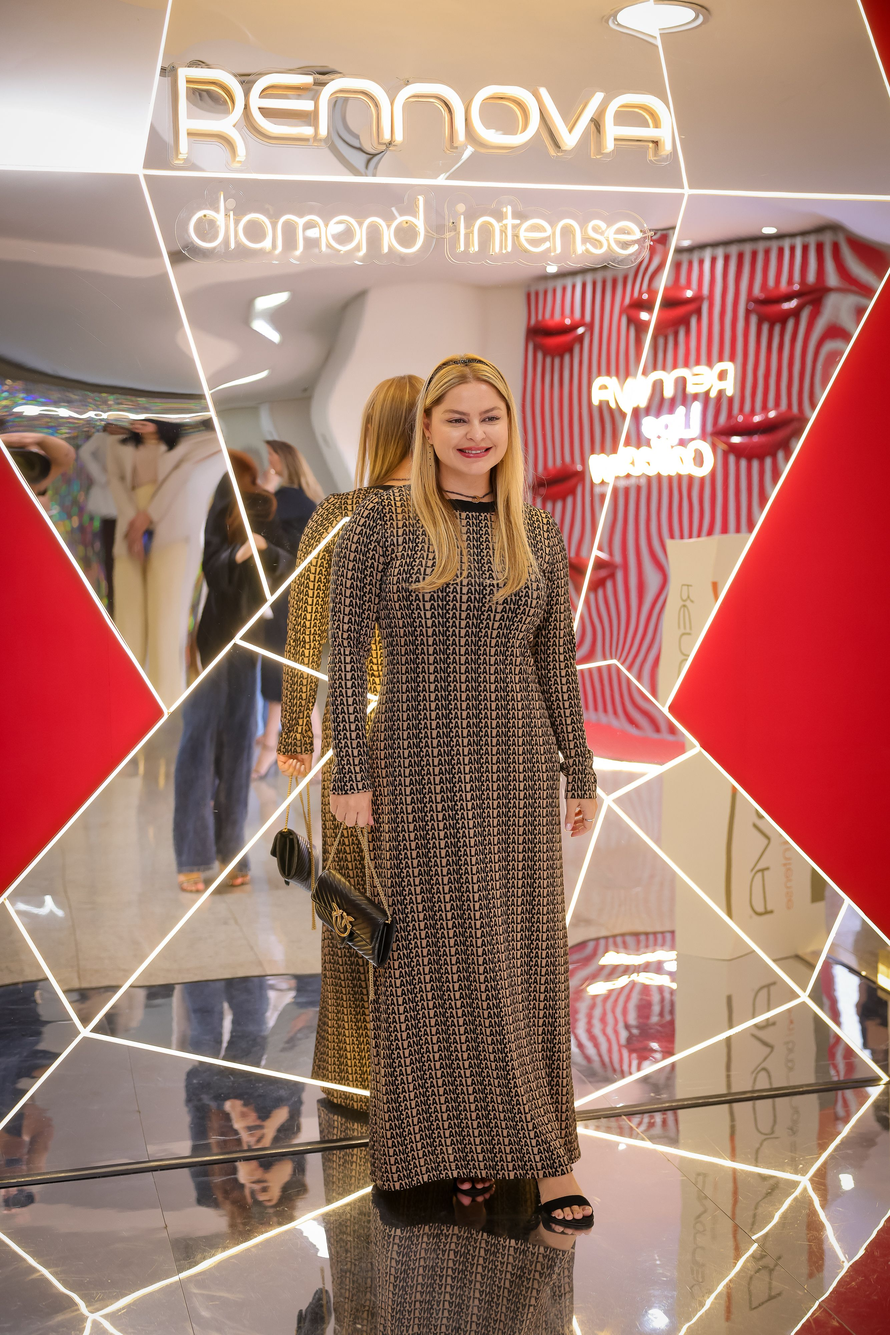
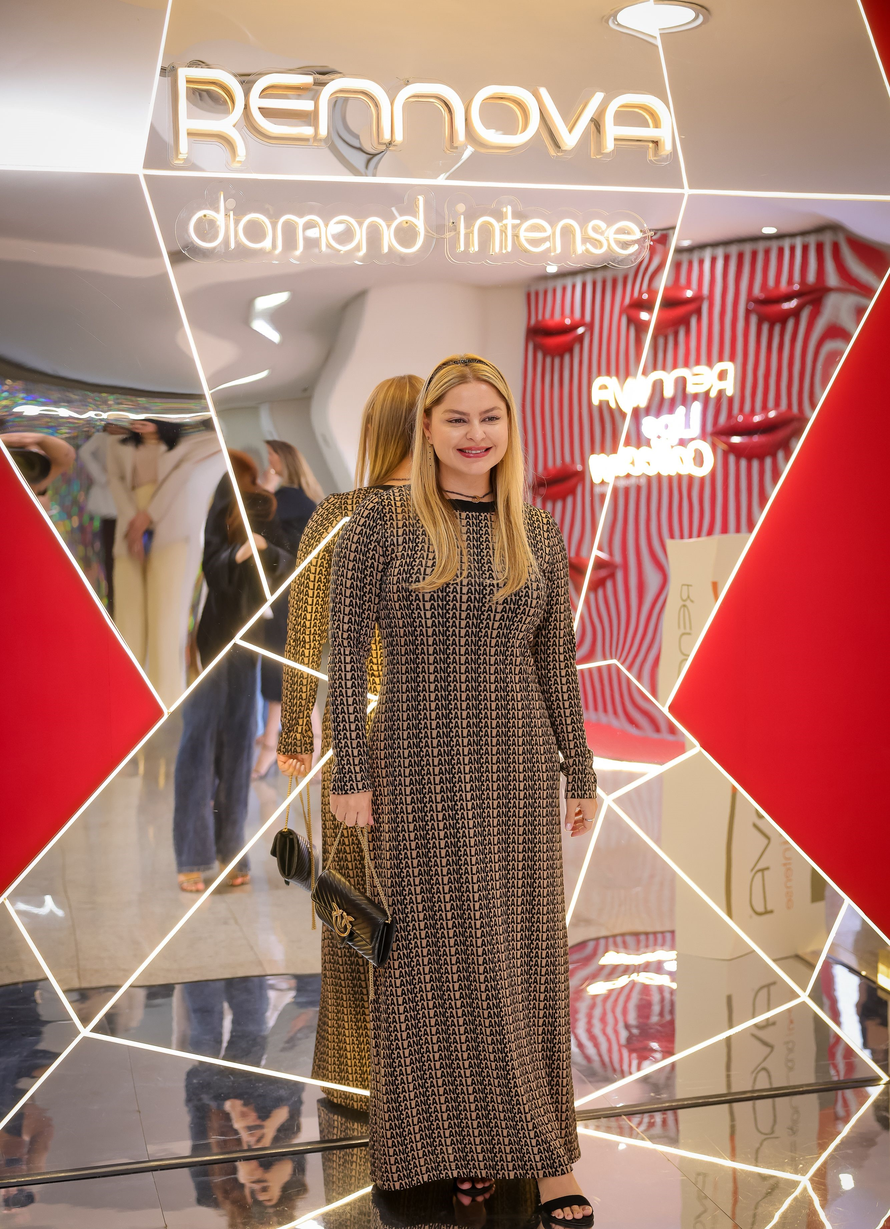
Change in section colors, button colors, photo and text of the 'schedule your appointment!' card, change in the background of the first section of the treatments page

diff --git a/index.html b/index.html
@@ -356,7 +356,7 @@
                 </div>
             </div>
         </section>
-        <section id="carousel" class="overlay-section1 sm:px-8 lg:px-16">
+        <section id="carousel" class="overlay-section1 sm:px-8 lg:px-16 color-sec-cares">
             <h3 class="text-center font-semibold text-amber-950 mb-4">CONGRESSO E EVENTOS</h3>
             <div class="carousel-3d-container">
                 <div class="carousel-3d">
@@ -435,11 +435,11 @@
                 </div>
             </div>
         </section>
-        <section id="destaques" class="overlay-section px-4 sm:px-8 lg:px-16">
+        <section id="destaques" class="overlay-section px-4 sm:px-8 lg:px-16 color-sec-cares">
             <div class="container mx-auto max-w-6xl">
                 <div class="text-center mb-12">
                     <a href="https://www.instagram.com/dra.marilliacarvalho/?hl=pt-br"
-                        class="inline-block bt-color font-semibold py-3 px-8 rounded-lg text-lg shadow-lg hover:shadow-xl transform hover:scale-105">
+                        class="inline-block bt-color-two font-semibold py-3 px-8 rounded-lg text-lg shadow-lg hover:shadow-xl transform hover:scale-105">
                         Conheça mais pelo instagram
                     </a>
                 </div>
@@ -452,7 +452,7 @@
                         <p class="text-gray-800">Flamboyant Park Bussines</p>
                         <p class="text-sm text-gray-700 mb-3">Endereço completo aqui, Goiânia - GO</p>
                         <a href="https://maps.app.goo.gl/tHfTeZ75w4kFywzp8"
-                            class="bt-color font-semibold py-3 px-8 rounded-lg inline-flex items-center text-lg shadow-lg hover:shadow-xl transform hover:scale-105">
+                            class="bt-color-two font-semibold py-3 px-8 rounded-lg inline-flex items-center text-lg shadow-lg hover:shadow-xl transform hover:scale-105">
                             GOIÂNIA
                         </a>
                     </div>
@@ -466,7 +466,7 @@
                         <p class="text-sm text-gray-700 mb-3">Endereço completo aqui, São Miguel do Passa Quatro - GO
                         </p>
                         <a href="https://maps.app.goo.gl/eGiCP4cbMKwyCzES7"
-                            class="bt-color font-semibold py-3 px-8 rounded-lg inline-flex items-center text-lg shadow-lg hover:shadow-xl transform hover:scale-105">
+                            class="bt-color-two font-semibold py-3 px-8 rounded-lg inline-flex items-center text-lg shadow-lg hover:shadow-xl transform hover:scale-105">
                             SÃO MIGUEL DO PASSA QUATRO
                         </a>
                     </div>
@@ -474,7 +474,7 @@
             </div>
         </section>
 
-        <section id="contato" class="mobile-only overlay-section z-20">
+        <section id="contato" class="mobile-only overlay-section z-20 color-sec-cares">
             <div class="relative lg:hidden flex flex-col items-center card card-wtsp lg:max-w-5xl mx-auto shadow-lg overflow-hidden">
                 <div class="block absolute inset-0 bg-black/30"></div>
                 <div class="z-10 py-12 px-8 lg:pl-20 lg:pr-8 lg:py-16 flex flex-col justify-end text-center lg:text-left flex-grow">
@@ -501,15 +501,15 @@
             </div>
         </section>
 
-        <section class="desktop-only overlay-section px-4 py-16">
+        <section class="desktop-only overlay-section px-4 py-16 color-sec-cares">
             <div class="card-wtsp-desk lg:flex items-center lg:max-w-5xl mx-auto rounded-2xl">
                 <div
                     class="py-12 px-8 lg:pl-20 lg:pr-8 lg:py-16 flex flex-col justify-center text-center lg:text-left flex-grow">
-                    <h2 class="text-white text-3xl font-bold mb-4">Agende já sua consulta!</h2>
-                    <p class="text-white text-lg max-w-xl lg:mx-0 mx-auto">
+                    <h2 class="color-subtitle text-3xl font-bold mb-4">Agende já sua consulta!</h2>
+                    <p class="color-subtitle text-lg max-w-xl lg:mx-0 mx-auto">
                         Entre em contato para tirar suas dúvidas e dar
                     </p>
-                    <p class="text-white text-lg mb-6 max-w-xl lg:mx-0 mx-auto">
+                    <p class="color-subtitle text-lg mb-6 max-w-xl lg:mx-0 mx-auto">
                         o primeiro passo para realçar sua beleza e bem-estar.
                     </p>
                     <div class="flex justify-center lg:justify-start">
@@ -526,7 +526,7 @@
                     </div>
                 </div>
                 <div id="agende-consulta-img-container" class="lg:w-1/2 lg:flex lg:justify-end pointer-events-none">
-                    <img src="/New Photos/SAVE_20250820_153606-removebg-preview.png" alt="[Imagem de Marilia Carvalho]"
+                    <img src="/New Photos/SAVE_20250820_153535-removebg-preview.png" alt="[Imagem de Marilia Carvalho]"
                         class="h-auto object-contain object-bottom pointer-events-auto lg:mt-0 lg:h-full rounded-br-4xl max-w-xs md:max-w-full agende-consulta-img">
                 </div>
             </div>

diff --git a/styles/style.css b/styles/style.css
@@ -75,6 +75,11 @@ body {
     color: white;
 }
 
+.bt-color-two {
+    background-color: white;
+    color: #1F2937;
+}
+
 .shadowgray {
     --tw-shadow: 0 20px 25px -5px rgb(0 0 0 / 0.1), 0 8px 10px -6px rgb(0 0 0 / 0.1);
     --tw-shadow-colored: 0 20px 25px -5px var(--tw-shadow-color), 0 8px 10px -6px var(--tw-shadow-color);
@@ -354,7 +359,7 @@ body {
 }
 
 .card-wtsp-desk {
-    background-color: rgba(222, 202, 196);
+    background-color: #f4f4f4;
     background-size: cover;
     background-position: center;
     border-top-left-radius: 2rem;
@@ -404,16 +409,21 @@ footer {
 }
 
 .agende-consulta-img {
-    /* Mover a imagem para cima. Ajuste o valor conforme a sua preferência */
-    margin-top: -80px;
-
-    /* Z-index para a imagem ficar por cima do conteúdo do texto */
+    /* Suas propriedades existentes que movem a imagem para cima */
+    margin-top: -110px;
+    position: relative;
     z-index: 10;
 
-    /* Mantenha o posicionamento relativo para que o z-index funcione */
-    position: relative;
+    /* --- NOVAS PROPRIEDADES PARA O EFEITO 3D --- */
+
+    /* 1. Adiciona uma sombra que segue o contorno da imagem */
+    filter: drop-shadow(0px 10px 15px rgba(0, 0, 0, 0.2));
 }
 
 .space-b {
     padding-bottom: 100px;
+}
+
+.bg-tratamentos {
+    background-color: #d6d6d6;
 }

diff --git a/tratamentos.html b/tratamentos.html
@@ -114,7 +114,7 @@
     </header>
 
     <main>
-        <section class="py-12 md:py-20 px-6 text-center bg-first-sec-pc">
+        <section class="py-12 md:py-20 px-6 text-center bg-tratamentos">
             <div class="container mx-auto">
                 <h1 class="text-3xl sm:text-4xl md:text-5xl font-bold color-subtitle text-brand-brown mb-4">Tratamentos
                     exclusivos</h1>
